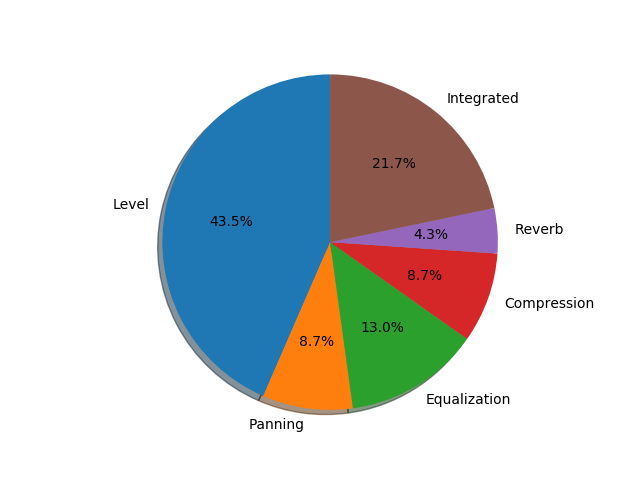
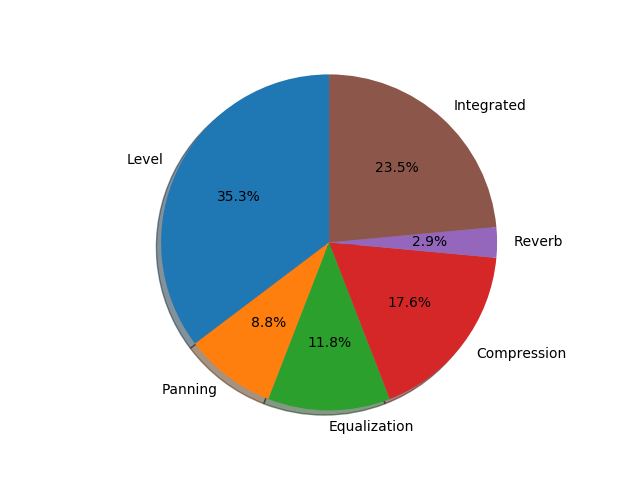
added papers from 2014 and 2015

diff --git a/README.md b/README.md
@@ -14,6 +14,8 @@ Systems that incorporate more than one procees are categorized as `integrated`.
 ## Level
 |Year|Title|Authors|Approach|Resources|
 |---|---|---|---|---|
+|2015|[Comparison of loudness features for automatic level adjustment in mixing](http://www.aes.org/e-lib/browse.cfm?elib=17928)|G. Wichern et al.|KE|No|
+|2014|[The mathematics of mixing](http://www.aes.org/tmpFiles/elib/20171227/17081.pdf)|M. J. Terrell, A. Simpson, and M. Sandler|GT|No|
 |2012|[Implementation and evaluation of autonomous multi-track fader control](http://citeseerx.ist.psu.edu/viewdoc/download?doi=10.1.1.725.3873&rep=rep1&type=pdf)|S. Mansbridge, S. Finn, and J. D. Reiss|GT|No|
 |2012|[An offline, automatic mixing method for live music, incorporating multiple sources, loudspeakers, and room effects](http://ieeexplore.ieee.org/document/6791175)|M. J. Terrell and M. Sandler|GT|No|
 |2012|[Multitrack mixing using a model of loudness and partial loudness](https://www.eecs.qmul.ac.uk/~josh/documents/WardReissAthwal-AES133-Multitrackmixingusingamodelofloudnessandpartialloudness.pdf)|D.Ward, J. D. Reiss, and C. Athwal|GT|No|
@@ -23,21 +25,27 @@ Systems that incorporate more than one procees are categorized as `integrated`.
 |2009|[Automatic equalization of multichannel audio using cross-adaptive methods](https://www.researchgate.net/publication/277836816_Automatic_Equalization_of_Multichannel_Audio_Using_Cross-Adaptive_Methods)|E. Perez Gonzalez and J. D. Reiss|GT|No|
 |2009|[Automatic monitor mixing for live musical performance](http://www.aes.org/e-lib/browse.cfm?elib=15229)|M. J. Terrell and J. D. Reiss|KE|No|
 |2008|[An automatic maximum gain normalization technique with applications to audio mixing](http://www.aes.org/e-lib/browse.cfm?elib=14541)|E. Perez Gonzalez and J. D. Reiss|GT|No|
-|2008|[A Framework for Automatic Mixing Using Timbral Similarity Measures and Genetic Optimization](http://www.aes.org/e-lib/browse.cfm?elib=14626)|B. Kolasinski|ML|[Yes](http://www.nyu.edu/projects/mtr/)|
+|2008|[A framework for automatic mixing using timbral similarity measures and genetic optimization](http://www.aes.org/e-lib/browse.cfm?elib=14626)|B. Kolasinski|ML|[Yes](http://www.nyu.edu/projects/mtr/)|
 ## Panning
 |Year|Title|Authors|Approach|Resources|
 |---|---|---|---|---|
+|2014|[A cross-adaptive dynamic spectral panning technique](http://www.dafx14.fau.de/papers/dafx14_pedro_d._pestana_a_cross_adaptive_dynamic_.pdf)|P. D. Pestana and J. D. Reiss|GT|No|
 |2012|[An autonomous system for multitrack stereo pan positioning](http://www.eecs.qmul.ac.uk/~josh/documents/MansbridgeFinnReiss-AES133-Autonomoussystemformultitrackstereopositioning.pdf)|S. Mansbridge, S. Finn, and J. D. Reiss|KE|No|
 |2010|[A real-time semiautonomous audio panning system for music mixing](https://asp-eurasipjournals.springeropen.com/articles/10.1155/2010/436895)|E. Perez Gonzalez and J. D. Reiss|GT|No|
 ## Equalization
 |Year|Title|Authors|Approach|Resources|
 |---|---|---|---|---|
+|2015|[Autonomous multitrack equalization based on masking reduction](http://www.eecs.qmul.ac.uk/~josh/documents/2015/Hafezi%20Reiss%20-%202015.pdf)|S. Hafezi and J. D. Reiss|GT|No|
 |2013|[Automated tonal balance enhancement for audio mastering applications](http://www.aes.org/e-lib/browse.cfm?elib=16737)|S. I. Mimilakis et al|GT|No|
 |2013|[Implementation of an intelligent equalization tool using Yule-Walker for music mixing and mastering](http://www.eecs.qmul.ac.uk/~josh/documents/Ma%20Reiss-%20Implementation%20of%20an%20Intelligent%20Equalization%20Tool%20Using%20Yule-Walker%20for%20Music%20Mixing%20and%20Mastering.pdf)|Z. Ma, J. D. Reiss, and D. A. A. Black|KE|No|
 |2009|[Automatic equalization of multichannel audio using cross-adaptive methods](http://www.aes.org/e-lib/browse.cfm?elib=15026)|E. Perez Gonzalez and J. D. Reiss|GT|No|
 ## Compression
 |Year|Title|Authors|Approach|Resources|
 |---|---|---|---|---|
+|2015|[Adaptive audio reproduction using personalized compression](https://www.eecs.qmul.ac.uk/~josh/documents/2015/Mason%20et%20al%20-%20AES57%20-%202015.pdf)|A. Mason et al.|GT|No|
+|2015|[Intelligent multitrack dynamic range compression](http://www.aes.org/e-lib/browse.cfm?elib=17821)|Z. Ma et al.|KE|No|
+|2014|[A statistical approach to automated offline dynamic processing in the audio mastering process](http://www.dafx14.fau.de/papers/dafx14_marcel_hilsamer_a_statistical_approach_to.pdf)|M. Hilsamer and S. Herzog|GT|No|
+|2013|[Parameter automation in a dynamic range compressor](http://www.aes.org/e-lib/browse.cfm?elib=16965)|D. Giannoulis, M. Massberg, and J. D. Reiss|KE|No|
 |2012|[An autonomous method for multi-track dynamic range compression](https://www.dafx12.york.ac.uk/papers/dafx12_submission_6.pdf)|J. A. Maddams, S. Finn, and J. D. Reiss|GT|No|
 |2010|[Automatic noise gate settings for drum recordings containing bleed from secondary sources](https://dl.acm.org/citation.cfm?id=1972713)|M. J. Terrell, J. D. Reiss|KE|No|
 ## Reverb
@@ -49,8 +57,11 @@ Systems that incorporate more than one procees are categorized as `integrated`.
 |---|---|---|---|---|
 |2017|[Towards an automated multitrack mixing tool using answer set programming](http://smc2017.aalto.fi/media/materials/proceedings/SMC17_p422.pdf)|F. Everardo|KE|No|
 |2017|[Analysis and prediction of the audio feature space when mixing raw recordings into individual stems](http://www.aes.org/e-lib/browse.cfm?elib=19245)|M. A. Martínez Ramírez and J. D. Reiss|ML|[Yes](https://github.com/mchijmma/audioFeatures-stemMixing)|
+|2015|[New sonorities for early jazz recordings using sound source separation and automatic mixing tools](http://ismir2015.uma.es/articles/190_Paper.pdf)|D. Matz, E. Cano, and J. Abeßer|GT|No|
+|2013|[A knowledge-engineered autonomous mixing system](http://www.aes.org/e-lib/browse.cfm?elib=17011)|B. De Man and J. D. Reiss|KE|No|
+|2013|[Instrument identification informed multi-track mixing](http://citeseerx.ist.psu.edu/viewdoc/download?doi=10.1.1.658.1536&rep=rep1&type=pdf)|J. Scott and Y. E. Kim|KE|No|
 |2010|[Advanced automatic mixing tools for music](https://qmro.qmul.ac.uk/jspui/handle/123456789/614)|E. Perez Gonzalez|GT|No|
-|2010|[Automatic Music Production System Employing Probabilistic Expert Systems](http://www.aes.org/e-lib/browse.cfm?elib=15677)|R. Gang, G. Bocko, J. Lundberg, D. Headlam, and M. F. Bocko|KE|No|
+|2010|[Automatic music production system employing probabilistic expert systems](http://www.aes.org/e-lib/browse.cfm?elib=15677)|R. Gang, G. Bocko, J. Lundberg, D. Headlam, and M. F. Bocko|KE|No|
 |2008|[Improved control for selective minimization of masking using interchannel dependancy effects](http://legacy.spa.aalto.fi/dafx08/papers/dafx08_15.pdf)|E. Perez Gonzalez and J. D. Reiss|GT|No|
 # Statistics
 ![pubs_by_year](figs/papers_by_year.png)
